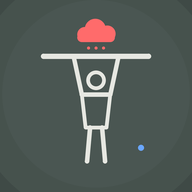
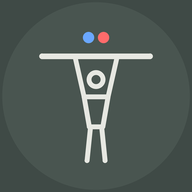
Nowa ikona: ludzik na drążku z dwiema kropkami zamiast chmury; mała ikonka powiadomień (biały ludzik na przezroczystym tle) zamiast pełnej ikony

diff --git a/sw.js b/sw.js
@@ -1,6 +1,6 @@
 // Offline: najpierw sieć (świeże rozpiski i aplikacja), a bez sieci ostatnia wersja z cache.
-const C = 'trening-v64';
-const SHELL = ['./', 'index.html', 'strings.js', 'exercises.js', 'logic.js', 'moves.js', 'manifest.webmanifest', 'icons/icon-192px.png', 'icons/icon-512px.png',
+const C = 'trening-v65';
+const SHELL = ['./', 'index.html', 'strings.js', 'exercises.js', 'logic.js', 'moves.js', 'manifest.webmanifest', 'icons/icon-192px.png', 'icons/icon-512px.png', 'icons/badge-96.png',
   'fonts/quicksand-latin.woff2', 'fonts/quicksand-latin-ext.woff2'];
 // Sieć zawsze z pytaniem do serwera o aktualną wersję. Bez tego przeglądarka przez 10 minut oddaje pliki z własnej pamięci
 // i po aktualizacji nowy index.html trafia na stary moves.js (karta ćwiczenia i trening się wtedy nie otwierają).
@@ -25,7 +25,7 @@ self.addEventListener('fetch', e => {
 // Powiadomienia z serwisu (dzień treningowy, raport dnia): treść { t: tytuł, b: treść, u: adres }. Kliknięcie otwiera aplikację.
 self.addEventListener('push', e => {
   const m = e.data ? e.data.json() : {};
-  e.waitUntil(Promise.all([self.registration.showNotification(m.t || 'trening', { body: m.b || '', icon: 'icons/icon-192px.png', badge: 'icons/icon-192px.png', data: m.u || './', ...(m.g && { tag: m.g, renotify: true }) }),
+  e.waitUntil(Promise.all([self.registration.showNotification(m.t || 'trening', { body: m.b || '', icon: 'icons/icon-192px.png', badge: 'icons/badge-96.png', data: m.u || './', ...(m.g && { tag: m.g, renotify: true }) }),
     clients.matchAll({ type: 'window' }).then(l => l.forEach(c => c.postMessage('push')))])); // otwarta aplikacja od razu pobiera nowości
 });
 self.addEventListener('notificationclick', e => {
